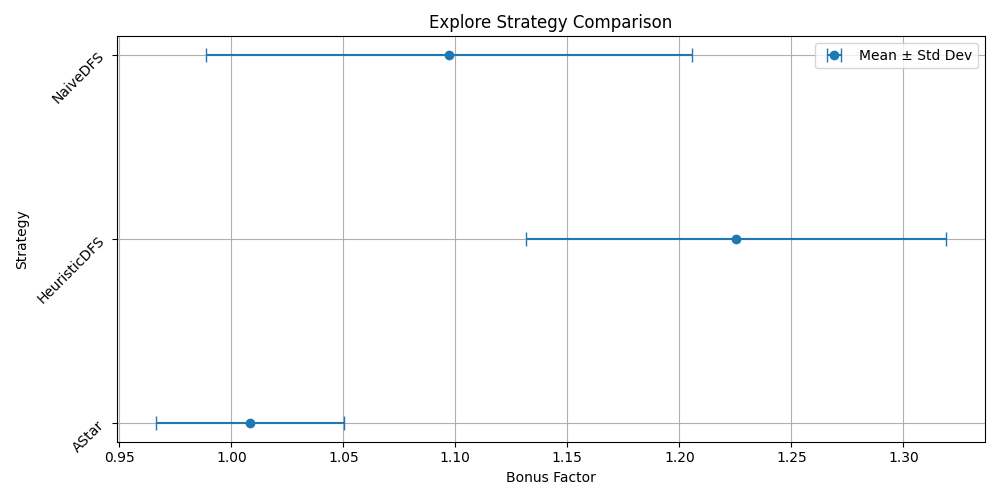
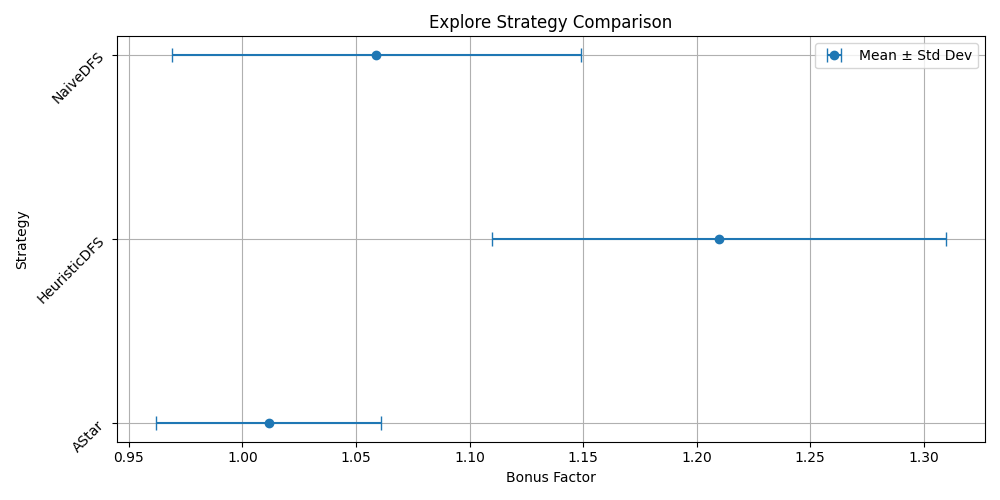
remove plot.show() for plotting file

diff --git a/python/PlotExploreComparisonGraph.py b/python/PlotExploreComparisonGraph.py
@@ -26,4 +26,3 @@ plt.legend()
 plt.grid(True)
 plt.tight_layout()
 plt.savefig('python/images/explore_strategy_comparison.png')
-plt.show()